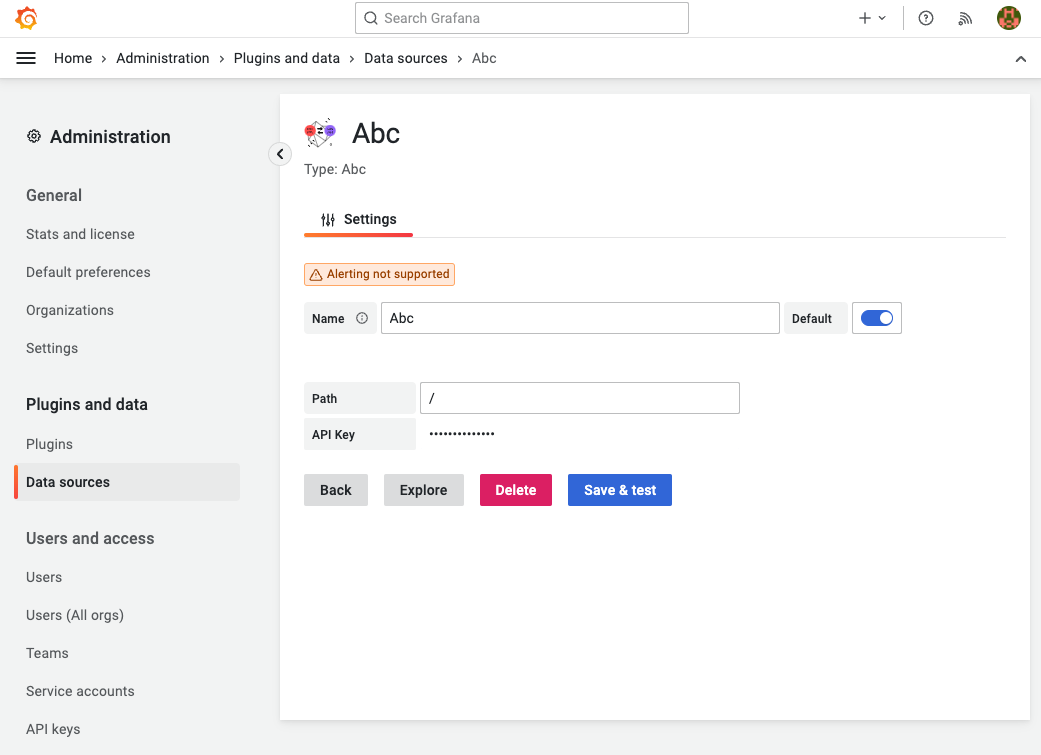
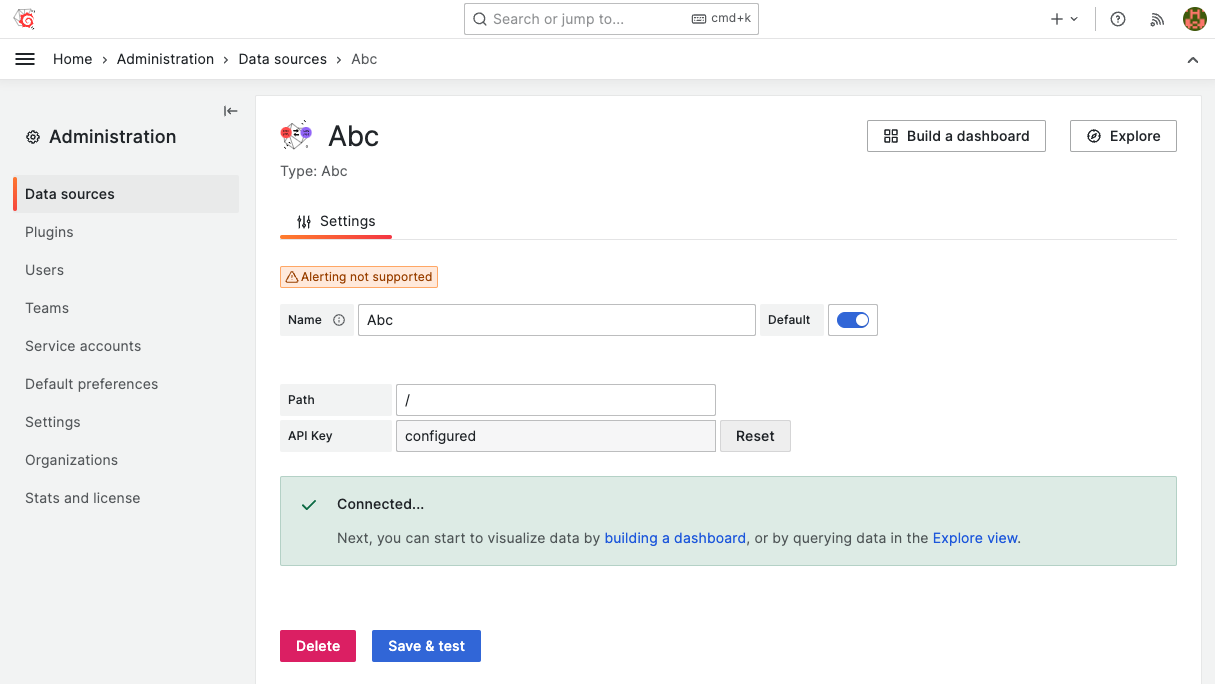
Update E2E Cypress testing (#27)
* Update E2E Cypress testing

* Update screenshot

diff --git a/src/types.ts b/src/types.ts
@@ -1,4 +1,5 @@
-import { DataQuery, DataSourceJsonData } from '@grafana/data';
+import { DataSourceJsonData } from '@grafana/data';
+import { DataQuery } from '@grafana/schema';
 
 /**
  * Query

diff --git a/README.md b/README.md
@@ -18,8 +18,9 @@ Generate a template with [https://github.com/VolkovLabs/volkovlabs-abc-datasourc
 
 ## Requirements
 
-- **Grafana 8.5+, Grafana 9.0+** is required for major version 2.
-- **Grafana 8.0+** is required for major version 1.
+- **Grafana 9**, and **Grafana 10** are required for major version 3.
+- **Grafana 8.5+** and **Grafana 9** are required for major version 2.
+- **Grafana 8** is required for major version 1.
 
 ## Getting Started
 

diff --git a/CHANGELOG.md b/CHANGELOG.md
@@ -1,5 +1,16 @@
 # Change Log
 
+## 3.0.0 (2023-06-25)
+
+### Breaking changes
+
+- Requires Grafana 9 and Grafana 10
+
+### Features / Enhancements
+
+- Update E2E Cypress testing (#27)
+- Remove Grafana 8.5 support (#27)
+
 ## 2.3.0 (2023-06-20)
 
 ### Features / Enhancements
